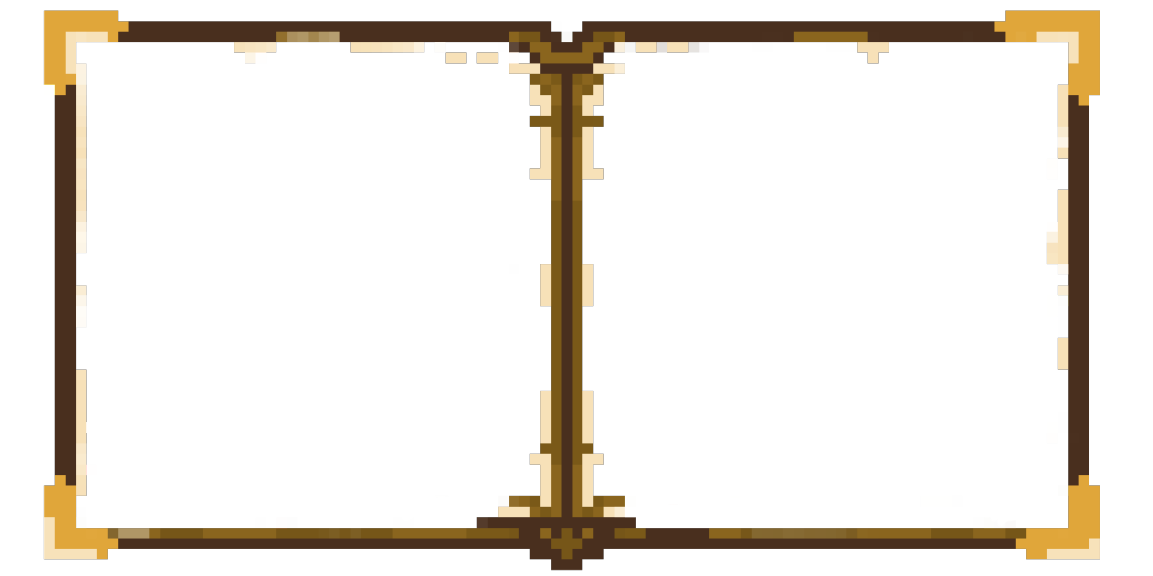
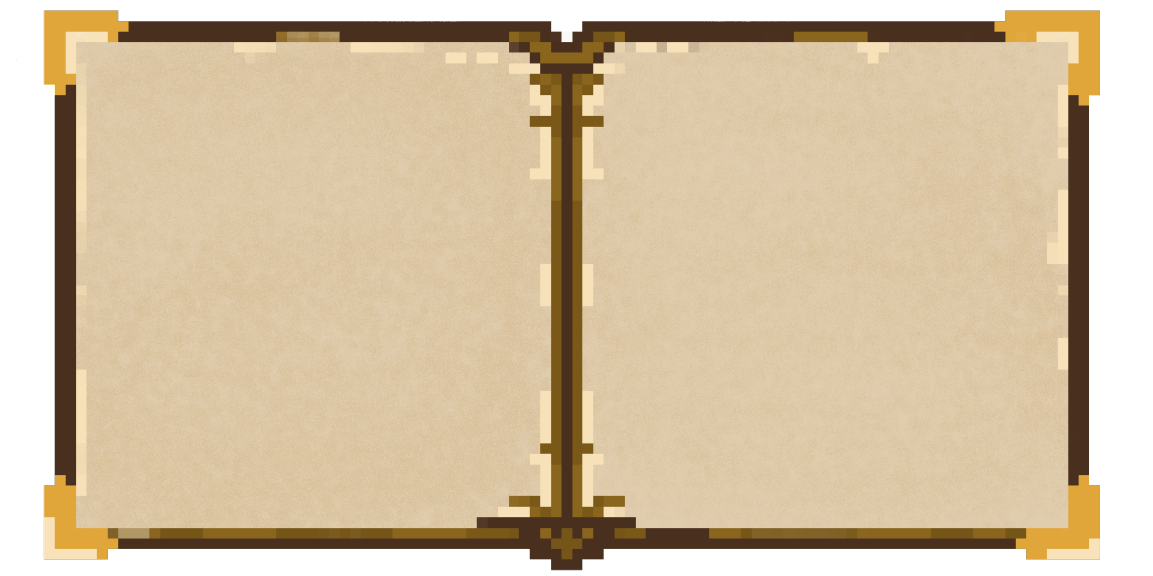
Add animated stars to header | Changed flex boy | Changed gender images

diff --git a/style_formulas.css b/style_formulas.css
@@ -9,57 +9,37 @@
   justify-content: center;
 }
 .formula-main-container {
+  width: 90%;
   min-height: 600px;
-  background-color: #f4f0e8;
+  background: url("Assets/images/full_desk.webp");
+  background-position: center;
+  background-size: cover;
+  background-repeat: no-repeat;
   display: flex;
   justify-content: space-between;
   user-select: none;
   position: relative;
+  background-color: lightblue;
+}
+.book-container {
+  position: fixed;
+  background-color: red;
+  left: 12%;
 }
 .formula-heading {
   margin: 1.2em 0 1em;
 }
-#book-cover {
-  display: block;
-  /* position: absolute; */
-  width: 80%;
-  height: 600px;
-  background-image: url("Assets/images/cream-paper.png");
-}
 .potion-container {
-  position: relative;
+  position: absolute;
   display: flex;
   flex-direction: column;
-  /* justify-content: space-around; */
-  /* align-items: center; */
-  width: 45%;
+  width: 25%;
   text-align: center;
-  /* background-color: lightgoldenrodyellow; */
-}
-.potion-container img {
-  display: block;
-  width: 70px;
-  height: 100px;
-  margin-top: 1em;
-}
-.potions {
-  display: flex;
-  justify-content: space-around;
-  align-items: center;
-}
-.potions div {
-  display: flex;
-  flex-direction: column;
-  justify-content: space-between;
-  align-items: center;
 }
 .potions-headings {
   display: flex;
   justify-content: space-around;
   align-items: center;
-}
-.potions div img {
-  display: block;
 }
 .formulas-container {
   display: flex;
@@ -110,7 +90,6 @@
   transform: translate(4px, 4px);
 }
 .formulas-results-inputs {
-  /* background-color: lightgreen; */
   width: 45%;
   display: flex;
   flex-direction: column;
@@ -123,17 +102,21 @@
   max-width: 5em;
   text-align: center;
   margin-top: 0.2em;
+  color: blue;
 }
 .formula-results,
 .formula-inputs {
-  /* background-color: blueviolet; */
   width: 100%;
   height: 40%;
   text-align: center;
   padding-top: 1em;
 }
-.formula-result {
+.formula-results-container {
+  position: absolute;
+  right: 28.5%;
+  top: 21.5%;
   text-align: center;
+  width: 340px;
 }
 .separator-formulas {
   position: absolute;

diff --git a/index.html b/index.html
@@ -105,7 +105,13 @@
                   <div class="gender-arrow"></div>
                   <div class="arrow-head"></div>
                   <div class="female-cross"></div>
-                  <div class="eye">👁</div>
+                  <img
+                    class="eye"
+                    src="Assets/images/eye.webp"
+                    width="100%"
+                    height="100%"
+                    alt="Eye icon"
+                  />
                   <img
                     class="gender-image"
                     src="Assets/images/"
@@ -577,6 +583,7 @@
                   d="M6 6V2c0-1.1.9-2 2-2h10a2 2 0 0 1 2 2v10a2 2 0 0 1-2 2h-4v4a2 2 0 0 1-2 2H2a2 2 0 0 1-2-2V8c0-1.1.9-2 2-2h4zm2 0h4a2 2 0 0 1 2 2v4h4V2H8v4zM2 8v10h10V8H2z"
                 />
               </svg>
+              <wiz/p>
             </p>
           </div>
         </div>
@@ -586,19 +593,8 @@
     <div class="formula-section">
       <h1 class="formula-heading">Spellbook Of Formulas</h1>
       <div class="formula-main-container">
-        <img src="Assets/images/book_border.webp" id="book-cover" alt="" />
+        <div class="book-container">asdhjasl</div>
         <div class="potion-container">
-          <div class="potions">
-            <div>
-              <img src="Assets/images/fat.png" alt="" />
-            </div>
-            <div>
-              <img src="Assets/images/blood_2.png" alt="" />
-            </div>
-            <div>
-              <img src="Assets/images/renel.png" alt="" />
-            </div>
-          </div>
           <div class="potions-headings">
             <h2 class="formula-sub-heading">Pregnancy & Obesity</h2>
             <h2 class="formula-sub-heading">Blood</h2>
@@ -638,7 +634,6 @@
           <div class="formula-results-container">
             <div class="formula-result"></div>
           </div>
-          <div class="formula-inputs">Inputs</div>
         </div>
       </div>
     </div>

diff --git a/script.js b/script.js
@@ -88,7 +88,7 @@ function updateGenderSymbol() {
     });
     gsap.to(genderImage, {
       scale: 0.6,
-      rotate: -25,
+      rotate: 10,
       x: -30,
       y: -50,
     });
@@ -98,7 +98,7 @@ function updateGenderSymbol() {
     });
     arrowHead.style.borderBottomColor = "#295511";
     genderImage.style.visibility = "visible";
-    genderImage.src = "Assets/images/magician_hat.svg";
+    genderImage.src = "Assets/images/wizard_hat.webp";
   } else if (radioFemale.checked) {
     gender = "f";
     genderSymbol.classList.add("female-color");
@@ -126,11 +126,11 @@ function updateGenderSymbol() {
       ease: "ease",
     });
     genderImage.style.visibility = "visible";
-    genderImage.src = "Assets/images/wizard_hat.svg";
+    genderImage.src = "Assets/images/witch_hat.webp";
     arrowHead.style.borderBottomColor = "transparent";
     gsap.to(genderImage, {
       scale: 0.6,
-      rotate: 25,
+      rotate: -10,
       x: 30,
       y: -50,
     });

diff --git a/style_quick_links.css b/style_quick_links.css
@@ -59,16 +59,12 @@ h1 {
   justify-content: space-evenly;
   flex-direction: column;
   align-items: center;
-  background-image: url("Assets/images/heading_background.webp");
+  background-image: url("Assets/images/head_background_1.gif");
   background-size: contain;
   background-position: center;
   height: 10em;
   margin-bottom: 2em;
   z-index: 2;
-}
-.quick-links-container-background {
-  background: url("Assets/images/stars_background.png");
-  background-size: contain;
 }
 * {
   -webkit-user-drag: none;

diff --git a/style_global_vars.css b/style_global_vars.css
@@ -104,7 +104,7 @@ h3 div {
 }
 /*===================================MEASURES VARIABLES===================================*/
 .measures-container {
-  background-image: url(Assets/images/flex_boy.png);
+  background-image: url(Assets/images/flex_boy_new.webp);
   background-repeat: no-repeat;
   background-size: contain;
   background-position: center;

diff --git a/style_mind_reader.css b/style_mind_reader.css
@@ -23,7 +23,6 @@
 .test {
   width: 100%;
   height: fit-content;
-  /* min-height: 100%; */
   background-color: #45307699;
   margin: 0.5em;
   border-radius: 1em;
